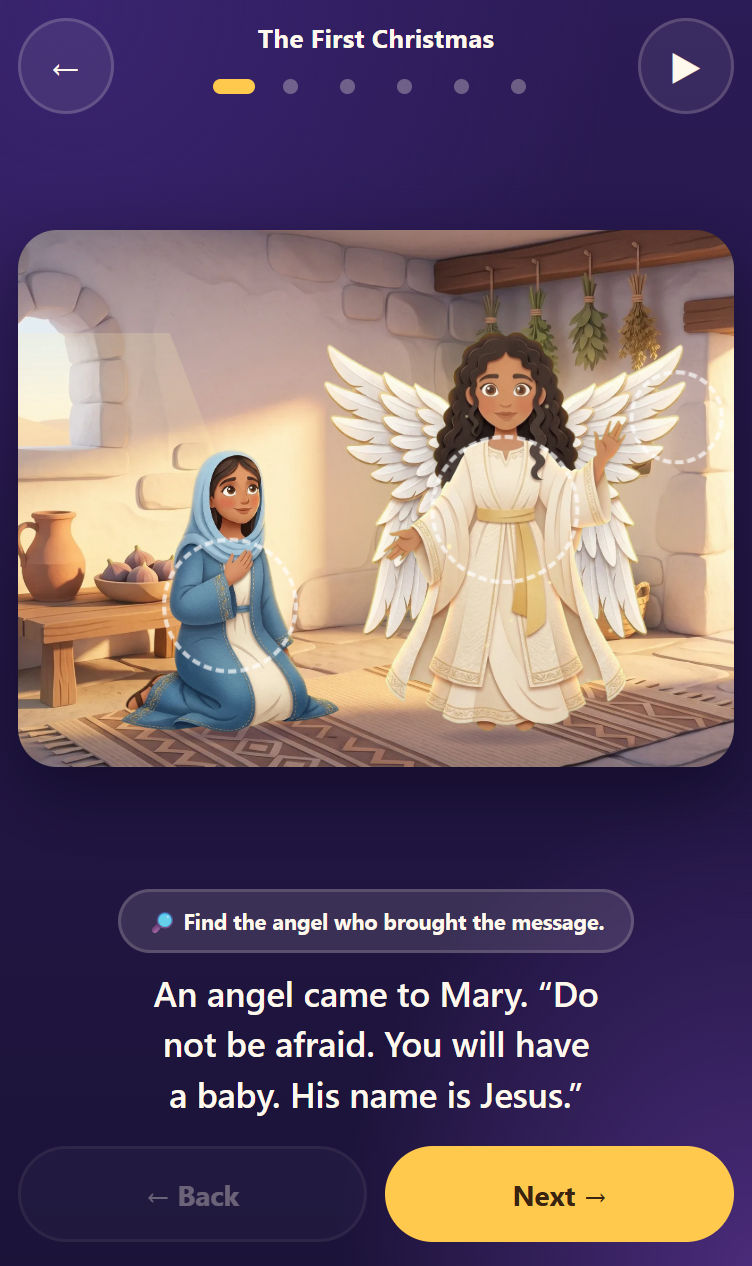
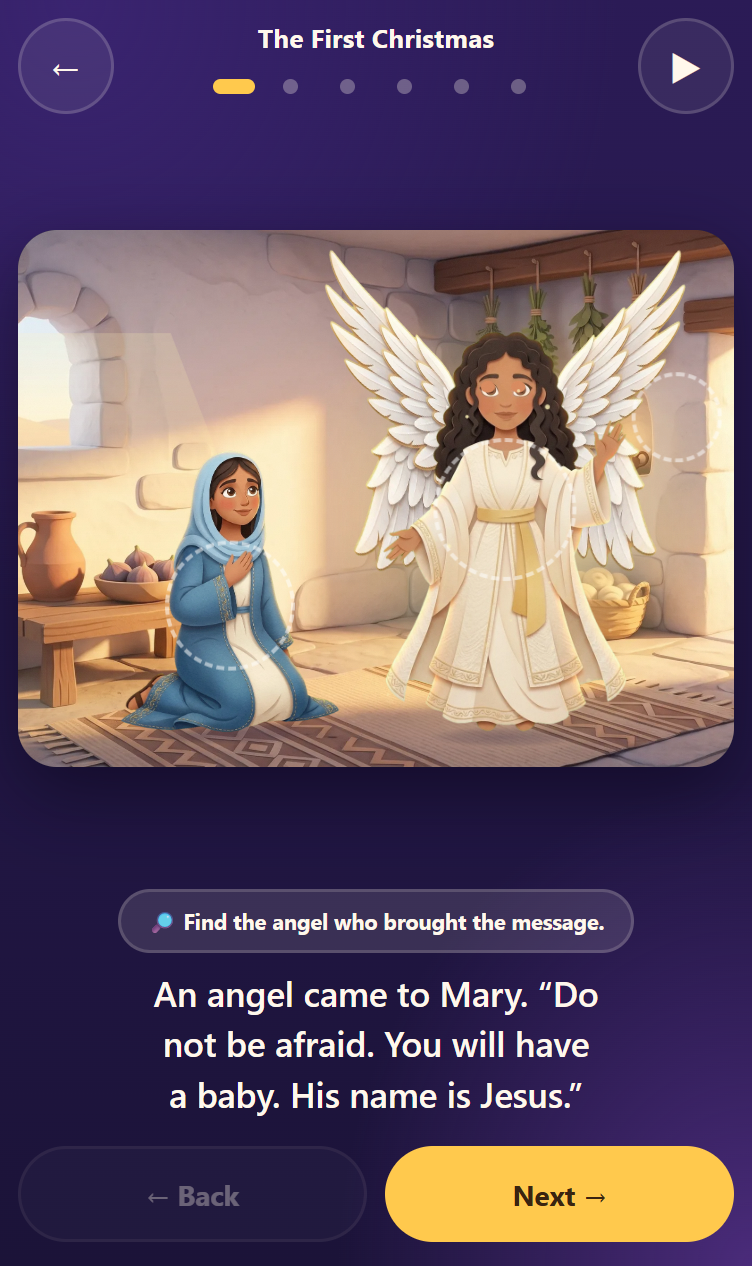
Christmas angels: wings swing forward on a perspective hinge
A flat foreshortening read as in-and-out. The flap is now rotateY about
the shoulder with perspective, so the wing tip comes toward the viewer as
it sweeps forward; rest pose stays 2D for browsers without 3D on SVG.

diff --git a/src/styles/motion.css b/src/styles/motion.css
@@ -353,26 +353,28 @@ svg [class*=" a-"] {
   transform-origin: 0% 35%;
 }
 
-/* Gentle forward-and-back flap for a wing split off its body: a slight
-   foreshortening toward the shoulder (the wing sweeps a little forward) with
-   a small rise and fall of the tip. Rest is the spread pose, so Calm mode
-   shows the wings open. */
+/* Forward-and-back flap for a wing split off its body: the wing swings on
+   a vertical hinge at the shoulder with perspective, so the tip comes toward
+   the viewer (grows) as it sweeps forward, instead of merely narrowing.
+   Chrome applies 3D transforms to SVG groups; a browser that does not simply
+   shows the spread pose. Rest is the spread pose, so Calm mode shows the
+   wings open. */
 @keyframes wing-flap-l {
   0%,
   100% {
-    transform: rotate(3deg) scaleX(1);
+    transform: perspective(600px) rotateY(0deg) rotate(2deg);
   }
   50% {
-    transform: rotate(-4deg) scaleX(0.82);
+    transform: perspective(600px) rotateY(-34deg) rotate(-2deg);
   }
 }
 @keyframes wing-flap-r {
   0%,
   100% {
-    transform: rotate(-3deg) scaleX(1);
+    transform: perspective(600px) rotateY(0deg) rotate(-2deg);
   }
   50% {
-    transform: rotate(4deg) scaleX(0.82);
+    transform: perspective(600px) rotateY(34deg) rotate(2deg);
   }
 }
 .a-wing-flap-l {

diff --git a/docs/evidence/2026-09-18-christmas-story/record.md b/docs/evidence/2026-09-18-christmas-story/record.md
@@ -157,3 +157,11 @@ the credit outage, then done). Motion check 33 clean; 148 tests.
   the shoulders (tips now level with the top of the head, span 266 px on a
   477 px phone frame); the dove's path moved up to y 95 from the door
   side. `gabriel-midbeat-phone.png`.
+- **"The wings move in and out, not forwards and backwards":** a flat
+  foreshortening does read as in-and-out. `a-wing-flap-l/-r` now swing the
+  wing on a vertical hinge at the shoulder with perspective
+  (`perspective(600px) rotateY(∓34deg)` plus a 2° tilt), so the tip comes
+  toward the viewer and grows as it sweeps forward. Measured on the phone
+  frame: the left wing goes from 150×213 px at rest to 126×260 px at
+  mid-beat. Chrome applies 3D transforms to SVG groups; a browser that does
+  not shows the spread pose. `gabriel-midbeat-phone.png` replaced.

diff --git a/CLAUDE.md b/CLAUDE.md
@@ -91,7 +91,10 @@ This bug hid a whole cast of characters once. It did not show up in
 `transform-origin` is resolved against the element's own bounding box. Declare
 pivots there as percentages (`50% 100%` for something that sways from its base),
 never as user-space coordinates in a component's inline `style`. A pivot in user
-units breaks the moment a scene places the part somewhere else.
+units breaks the moment a scene places the part somewhere else. 3D transforms
+(`perspective`, `rotateY`) work on SVG groups in Chrome and are used for the
+Christmas angels' wing hinge; keep the rest pose 2D so other browsers degrade
+to a still wing.
 
 ## Layout
 
